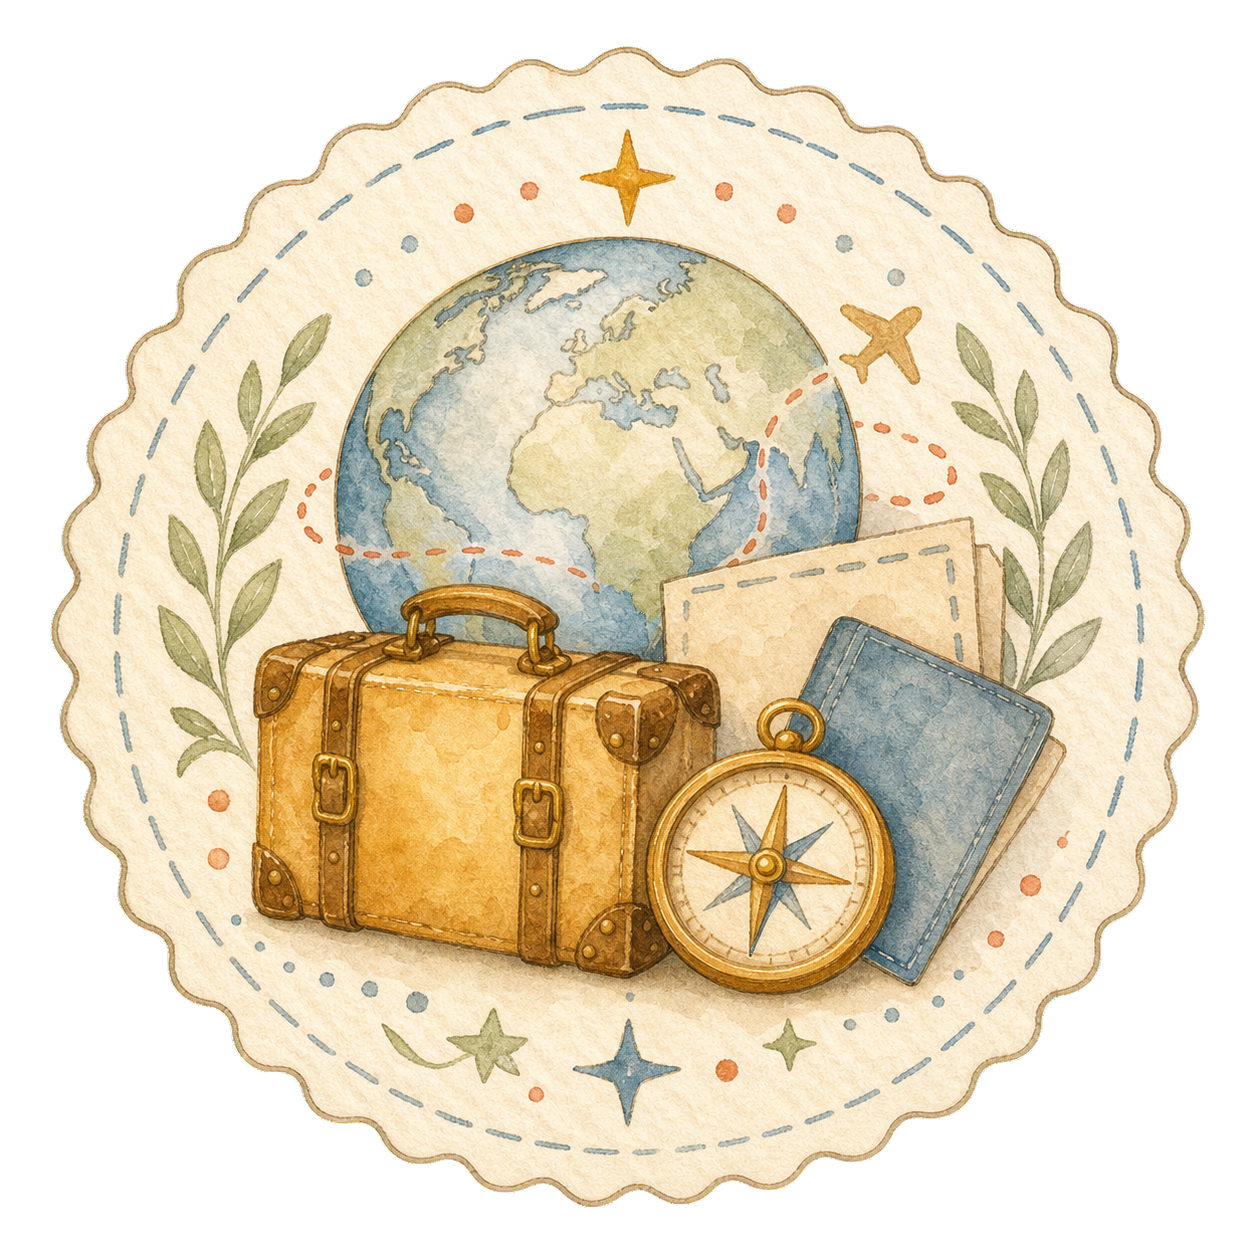
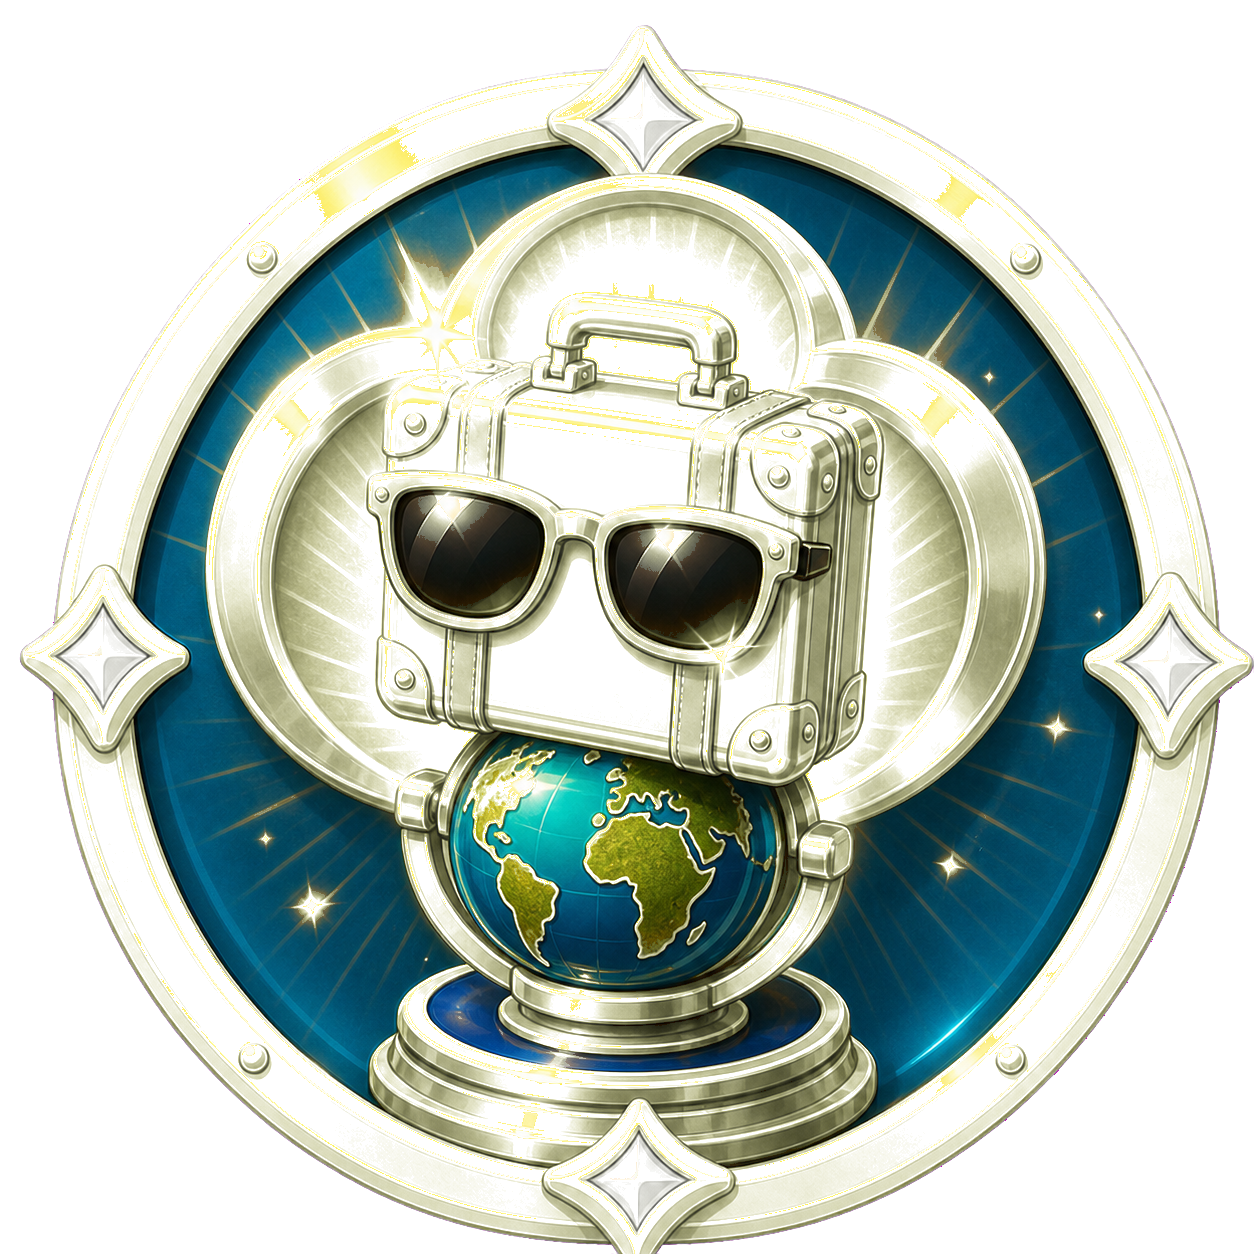
Integrate final travel achievement medals

diff --git a/TripPet_1.0.8_Local_Consolidation_Summary.md b/TripPet_1.0.8_Local_Consolidation_Summary.md
@@ -203,6 +203,48 @@
   - 启动截图：`/Users/qianyu/Documents/Trip/BuildArtifacts/TripPet-1.0.8-map-countdown-appicon-20260630-0743-launch.png`。
 - 当前没有提交 commit，没有 push，没有上传，也没有创建 PR。
 
+## 2026-06-30 旅行 6 枚勋章资源链路收束
+
+### 本次继续不处理
+
+- `TripPet/Resources/ArtSourceRaster/Achievements/candidates/` 仍作为候选素材目录保留，不纳入正式包、不提交。
+- 「补充 iCloud 存储逻辑」继续保持排除，不改持久化/同步架构。
+
+### 本次新增纳入
+
+- `achievement_medal_travel_tier_001` 到 `achievement_medal_travel_tier_006` 的正式资源链路已完整落地：
+  - `raw.png`
+  - `alpha.png`
+  - `imagegen.json`
+  - `source.png`
+  - `.imageset/@3x.png`
+- 6 枚 app-facing PNG 均为 `768x768`、RGBA、透明 alpha。
+- 6 枚 `source.png` 与 `.imageset/@3x.png` 的 SHA-256 均一致。
+- 6 份 provenance 均标记为 `integrated_as_app_asset`。
+- 运行端截图：
+  - `/Users/qianyu/Documents/Trip/VerificationScreenshots/travel_medals_achievements_2026-06-30.png`
+  - `/Users/qianyu/Documents/Trip/VerificationScreenshots/travel_medals_achievements_scroll_2026-06-30.png`
+  - `/Users/qianyu/Documents/Trip/VerificationScreenshots/travel_medals_runtime_2026-06-30.png`
+
+### 验证与打包
+
+- 资源文件校验：
+  - `python3 .codex/skills/art-asset-integration-guard/scripts/verify_asset_files.py --project-root /Users/qianyu/Documents/Trip --require-provenance --asset achievement_medal_travel_tier_001 --asset achievement_medal_travel_tier_002 --asset achievement_medal_travel_tier_003 --asset achievement_medal_travel_tier_004 --asset achievement_medal_travel_tier_005 --asset achievement_medal_travel_tier_006`
+  - 结果：`File-level check complete`。
+- 目标单测：
+  - `xcodebuild test -project TripPet.xcodeproj -scheme TripPet -destination 'platform=iOS Simulator,id=0F39C893-4E39-4C55-BEA7-9F0D221D664D' -derivedDataPath DerivedDataCodex -only-testing:TripPetTests/AchievementEngineTests/testFormalAchievementMedalAssetsExistInBundle`
+  - 结果：`TEST SUCCEEDED`。
+  - 测试结果：`/Users/qianyu/Documents/Trip/DerivedDataCodex/Logs/Test/Test-TripPet-2026.06.30_08-57-37-+0800.xcresult`
+- 真机 Debug build：
+  - `xcodebuild build -project TripPet.xcodeproj -scheme TripPet -configuration Debug -destination 'id=BC67627A-9384-5020-AD2D-51F02D4E8C2C' -derivedDataPath BuildArtifacts/DerivedData-1.0.8-travel-medals-device`
+  - 结果：`BUILD SUCCEEDED`。
+  - 设备：`qianyu`，iPhone 15 Pro Max，device id `BC67627A-9384-5020-AD2D-51F02D4E8C2C`。
+  - 已安装并成功启动 `com.qianyu.TripPet`。
+- 最终真机 Debug 包：
+  - `/Users/qianyu/Documents/Trip/BuildArtifacts/TripPet-1.0.8-travel-medals-20260630-0901-device-debug.app.zip`
+  - Size：`216M`
[1 lines of base64/hex data omitted]
+
 ## 2026-06-28 今日项目改动汇总
 
 ### 工作区状态
